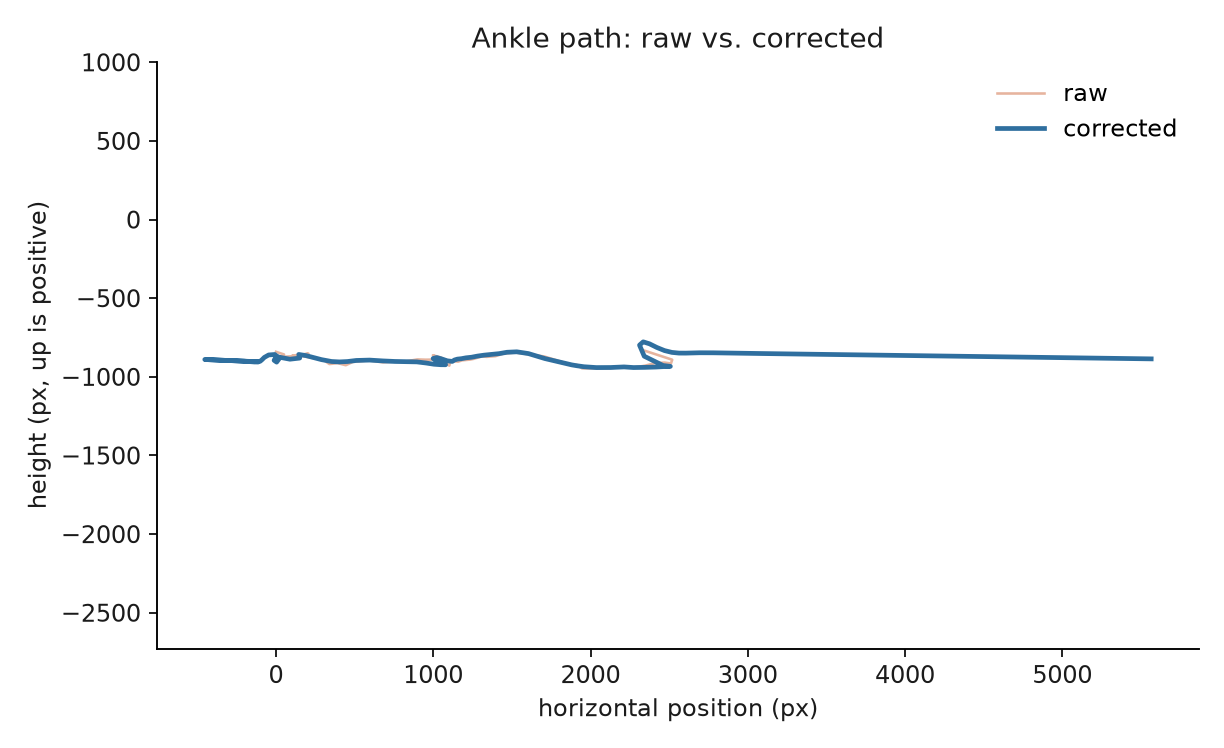
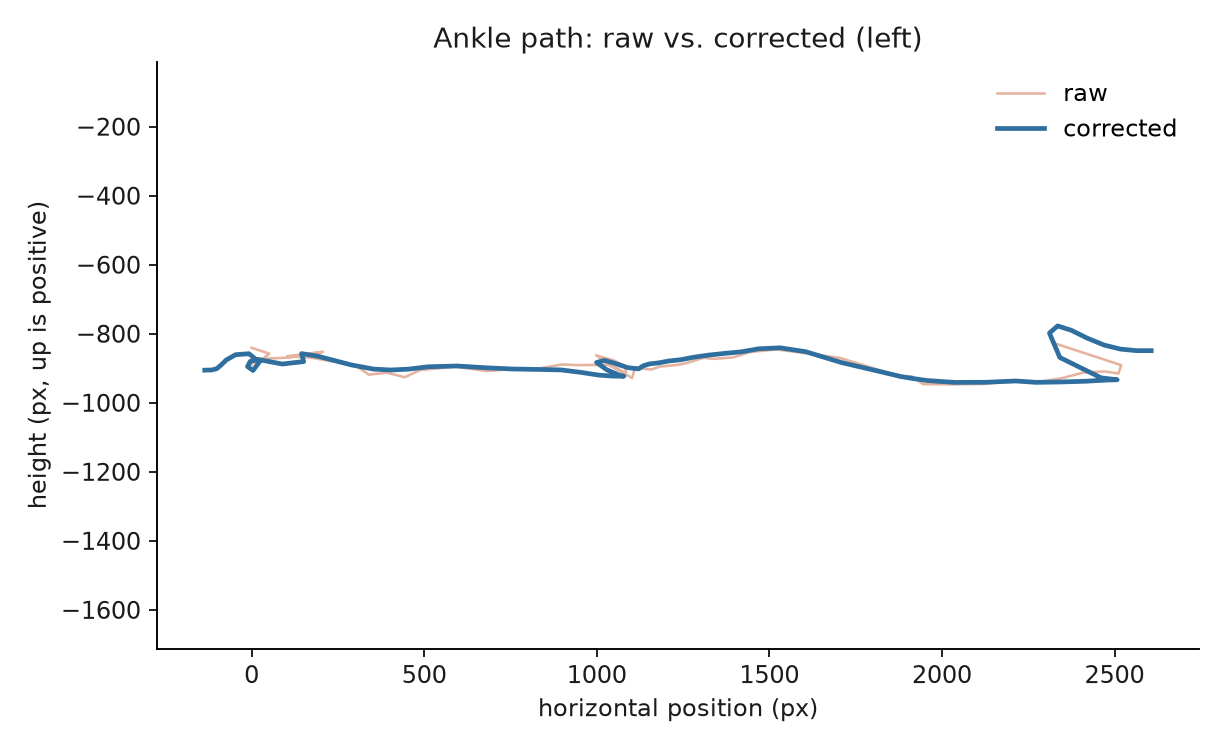
Expand qualitative figure gallery and polish README layout

diff --git a/src/strideline/viz.py b/src/strideline/viz.py
@@ -14,6 +14,7 @@ import matplotlib.pyplot as plt
 
 STRIDE_BLUE = "#2f6f9f"
 STRIDE_RED = "#c1440e"
+STRIDE_GREEN = "#2c8c4c"
 STRIDE_INK = "#1b1b1b"
 STRIDE_GRID = "#d8d8d8"
 
@@ -153,7 +154,7 @@ def plot_bound_validation(rows, out_path, title="Certified bound vs. empirical t
     plt.close(fig)
 
 
-def render_overlay_gif(video_path, tracks, results, out_path, fps_out=12.0, resize_width=480,
+def render_overlay_gif(video_path, tracks, results, out_path, fps_out=15.0, resize_width=640,
                         pad_frames=6):
     """Render raw (red) vs. corrected (blue) skeleton overlays on the
     original video, exported as a compact GIF for the README hero image.
@@ -225,20 +226,163 @@ def render_overlay_gif(video_path, tracks, results, out_path, fps_out=12.0, resi
                 cv2.circle(canvas, pt(p), 5, (255, 255, 255), -1, cv2.LINE_AA)
                 cv2.circle(canvas, pt(p), 5, (220, 140, 30), 2, cv2.LINE_AA)
 
-        font_scale = 0.5
-        cv2.putText(canvas, "red = raw pose   blue = corrected", (14, 26),
-                    cv2.FONT_HERSHEY_SIMPLEX, font_scale, (255, 255, 255), 3, cv2.LINE_AA)
-        cv2.putText(canvas, "red = raw pose   blue = corrected", (14, 26),
-                    cv2.FONT_HERSHEY_SIMPLEX, font_scale, (20, 20, 20), 1, cv2.LINE_AA)
         frames_out.append(cv2.cvtColor(canvas, cv2.COLOR_BGR2RGB))
         i += 1
 
     cap.release()
 
-    images = [Image.fromarray(f).quantize(colors=128, method=Image.MEDIANCUT) for f in frames_out]
+    # No burned-in caption text: GIF palette quantization makes small anti-aliased
+    # text look blurry/noisy. The red/blue legend lives in the README caption
+    # instead, where it renders crisply at any zoom level.
+    images = [Image.fromarray(f).quantize(colors=192, method=Image.MEDIANCUT) for f in frames_out]
     duration_ms = round(1000 / fps_out)
     images[0].save(out_path, save_all=True, append_images=images[1:], duration=duration_ms,
                    loop=0, optimize=True)
+
+
+def plot_synthetic_correction_gallery(seq, result, side, dt, out_path, n_panels=6):
+    """One full gait cycle, small multiples: the true stick figure (green,
+    exact simulator ground truth) against the actual raw noisy keypoints
+    (red, literally the simulated detector's output) and the corrected
+    reconstruction (blue), all recentred on the hip. Unlike the real-video
+    case study, this has ground truth, so it is the most direct visual
+    evidence the correction is recovering the right skeleton rather than
+    merely a smoother-looking wrong one.
+    """
+    from . import kinematics as kin
+
+    side_name = {"L": "left", "R": "right"}.get(side, side)
+    contacts = seq.contact_times_true[side]
+    t0, t1 = contacts[1], contacts[2]  # an interior cycle, away from sequence edges
+    idxs = [round((t0 + frac * (t1 - t0)) / dt) for frac in np.linspace(0, 1, n_panels, endpoint=False)]
+
+    true_thigh = np.unwrap(seq.theta_thigh_true[side])
+    true_shank = np.unwrap(seq.theta_shank_true[side])
+    L_total = seq.L_thigh_true + seq.L_shank_true
+
+    fig, axes = plt.subplots(1, n_panels, figsize=(1.85 * n_panels, 2.7), sharex=True, sharey=True)
+
+    def leg(ax, knee, ankle, color, lw, label, z, ls="-"):
+        ax.plot([0, knee[0], ankle[0]], [0, -knee[1], -ankle[1]], color=color, lw=lw, ls=ls,
+                marker="o", ms=4.5, label=label, zorder=z, solid_capstyle="round",
+                dash_capstyle="round")
+
+    for panel, idx in enumerate(idxs):
+        ax = axes[panel]
+        tk = seq.L_thigh_true * kin.unit(true_thigh[idx])
+        ta = tk + seq.L_shank_true * kin.unit(true_shank[idx])
+        leg(ax, tk, ta, STRIDE_GREEN, 3.4, "true", 1)
+
+        hip_r, knee_r, ankle_r = seq.hip_raw[idx], seq.knee_raw[side][idx], seq.ankle_raw[side][idx]
+        if np.all(np.isfinite(knee_r)) and np.all(np.isfinite(ankle_r)):
+            leg(ax, knee_r - hip_r, ankle_r - hip_r, STRIDE_RED, 1.6, "raw", 2)
+
+        ck = result.L_thigh * kin.unit(result.theta_thigh[idx])
+        ca = ck + result.L_shank * kin.unit(result.theta_shank[idx])
+        leg(ax, ck, ca, STRIDE_BLUE, 2.0, "corrected", 3, ls=(0, (4, 2)))
+
+        ax.set_xticks([])
+        ax.set_yticks([])
+        ax.set_aspect("equal")
+        for spine in ax.spines.values():
+            spine.set_visible(False)
+
+    axes[0].set_xlim(-0.75 * L_total, 0.75 * L_total)
+    axes[0].set_ylim(-1.08 * L_total, 0.08 * L_total)
+    axes[0].legend(loc="upper left", fontsize=8.5, frameon=False, handlelength=2.0)
+    fig.suptitle(f"One gait cycle, ground truth vs. raw vs. corrected ({side_name} leg)", fontsize=13,
+                 color=STRIDE_INK, y=0.98)
+    fig.tight_layout()
+    fig.savefig(out_path, dpi=170, bbox_inches="tight")
+    plt.close(fig)
+
+
+def render_contact_filmstrip(video_path, tracks, result, side, events, dt, out_path,
+                              n_events=4, crop_w=260, crop_h=340):
+    """A crisp, static filmstrip of real video frames at detected foot-strike
+    instants, with the corrected skeleton overlaid and the certified timing
+    window printed under each panel. Static PNG, not a GIF, so the text
+    renders sharp at any zoom level.
+    """
+    import cv2
+    from PIL import Image, ImageDraw, ImageFont
+
+    from . import kinematics as kin
+
+    if not events:
+        return
+
+    chosen_idx = np.linspace(0, len(events) - 1, min(n_events, len(events))).round().astype(int)
+    chosen = [events[i] for i in sorted(set(chosen_idx.tolist()))]
+
+    knee_hat, ankle_hat = kin.forward_kinematics(result.hip, result.theta_thigh, result.theta_shank,
+                                                  result.L_thigh, result.L_shank)
+
+    cap = cv2.VideoCapture(str(video_path))
+    try:
+        font = ImageFont.truetype("arial.ttf", 17)
+        font_small = ImageFont.truetype("arial.ttf", 14)
+    except OSError:
+        font = ImageFont.load_default()
+        font_small = font
+
+    label_h = 46
+    panels = []
+    for e in chosen:
+        frame_idx = round(e.t_cross / dt)
+        cap.set(cv2.CAP_PROP_POS_FRAMES, frame_idx)
+        ret, frame = cap.read()
+        if not ret:
+            continue
+
+        cx, cy = ankle_hat[frame_idx]
+        cy -= crop_h * 0.32
+        x0, y0 = int(cx - crop_w / 2), int(cy - crop_h / 2)
+        fh, fw = frame.shape[:2]
+        pad_l, pad_t = max(0, -x0), max(0, -y0)
+        pad_r, pad_b = max(0, x0 + crop_w - fw), max(0, y0 + crop_h - fh)
+        padded = cv2.copyMakeBorder(frame, pad_t, pad_b, pad_l, pad_r, cv2.BORDER_CONSTANT, value=(20, 20, 20))
+        x0p, y0p = x0 + pad_l, y0 + pad_t
+        crop = padded[y0p:y0p + crop_h, x0p:x0p + crop_w].copy()
+        offset = np.array([x0, y0])
+
+        def pt(p, offset=offset):
+            return (int(p[0] - offset[0]), int(p[1] - offset[1]))
+
+        hip_c, knee_c, ankle_c = result.hip[frame_idx], knee_hat[frame_idx], ankle_hat[frame_idx]
+        knee_r, ankle_r = tracks.knee[side][frame_idx], tracks.ankle[side][frame_idx]
+        hip_r = tracks.hip[side][frame_idx]
+        if np.all(np.isfinite(knee_r)) and np.all(np.isfinite(hip_r)):
+            cv2.line(crop, pt(hip_r), pt(knee_r), (30, 30, 220), 2, cv2.LINE_AA)
+        if np.all(np.isfinite(ankle_r)) and np.all(np.isfinite(knee_r)):
+            cv2.line(crop, pt(knee_r), pt(ankle_r), (30, 30, 220), 2, cv2.LINE_AA)
+        cv2.line(crop, pt(hip_c), pt(knee_c), (220, 140, 30), 3, cv2.LINE_AA)
+        cv2.line(crop, pt(knee_c), pt(ankle_c), (220, 140, 30), 3, cv2.LINE_AA)
+        for p in (hip_c, knee_c, ankle_c):
+            cv2.circle(crop, pt(p), 5, (255, 255, 255), -1, cv2.LINE_AA)
+            cv2.circle(crop, pt(p), 5, (220, 140, 30), 2, cv2.LINE_AA)
+
+        rgb = cv2.cvtColor(crop, cv2.COLOR_BGR2RGB)
+        panel = Image.new("RGB", (crop_w, crop_h + label_h), (250, 250, 250))
+        panel.paste(Image.fromarray(rgb), (0, 0))
+        draw = ImageDraw.Draw(panel)
+        draw.text((10, crop_h + 6), f"t = {e.t_cross:.2f}s", fill=(20, 20, 20), font=font)
+        draw.text((10, crop_h + 26), f"certified window: +/-{e.bound_seconds * 1000:.0f} ms",
+                   fill=(70, 70, 70), font=font_small)
+        panels.append(panel)
+
+    cap.release()
+    if not panels:
+        return
+
+    gap = 14
+    total_w = sum(p.width for p in panels) + gap * (len(panels) - 1)
+    strip = Image.new("RGB", (total_w, panels[0].height), (255, 255, 255))
+    x = 0
+    for p in panels:
+        strip.paste(p, (x, 0))
+        x += p.width + gap
+    strip.save(out_path)
 
 
 def plot_energy_trace(energy_trace, out_path, title="Alternating-minimization energy"):

diff --git a/scripts/run.py b/scripts/run.py
@@ -32,9 +32,12 @@ def process_side(tracks, side, dt, pad_frames=6):
 
     valid_idx = np.where(np.all(np.isfinite(knee_raw), axis=-1))[0]
     if len(valid_idx):
-        t_lo = max(0, valid_idx[0] - pad_frames) * dt
-        t_hi = (min(len(knee_raw) - 1, valid_idx[-1] + pad_frames)) * dt
-        events = [e for e in events if t_lo <= e.t_cross <= t_hi]
+        lo = max(0, valid_idx[0] - pad_frames)
+        hi = min(len(knee_raw) - 1, valid_idx[-1] + pad_frames)
+    else:
+        lo, hi = 0, len(knee_raw) - 1
+    t_lo, t_hi = lo * dt, hi * dt
+    events = [e for e in events if t_lo <= e.t_cross <= t_hi]
 
     raw_cv_thigh = kinematic_consistency_violation(hip_raw, knee_raw, result.L_thigh)
     corr_cv_thigh = kinematic_consistency_violation(result.hip, knee_hat, result.L_thigh)
@@ -46,7 +49,7 @@ def process_side(tracks, side, dt, pad_frames=6):
     summary["L_thigh_px"] = result.L_thigh
     summary["L_shank_px"] = result.L_shank
 
-    return result, events, ankle_hat, knee_hat, summary
+    return result, events, ankle_hat, knee_hat, summary, (lo, hi)
 
 
 def main():
@@ -63,8 +66,10 @@ def main():
     for side in ("left", "right"):
         results[side] = process_side(tracks, side, dt)
 
-    left_result, left_events, left_ankle_hat, _, left_summary = results["left"]
-    right_result, right_events, _, _, right_summary = results["right"]
+    left_result, left_events, left_ankle_hat, _, left_summary, left_span = results["left"]
+    right_result, right_events, right_ankle_hat, _, right_summary, right_span = results["right"]
+    l_lo, l_hi = left_span
+    r_lo, r_hi = right_span
 
     contacts_left = np.array([e.t_cross for e in left_events])
     contacts_right = np.array([e.t_cross for e in right_events])
@@ -76,15 +81,30 @@ def main():
     cadence = met.cadence_spm(contacts_left, contacts_right, active_duration)
     asymmetry = met.step_time_asymmetry_pct(contacts_left, contacts_right)
 
-    viz.plot_phase_portrait(left_result.raw_theta_thigh, left_result.raw_theta_shank,
-                             left_result.theta_thigh, left_result.theta_shank, dt,
+    viz.plot_phase_portrait(left_result.raw_theta_thigh[l_lo:l_hi + 1], left_result.raw_theta_shank[l_lo:l_hi + 1],
+                             left_result.theta_thigh[l_lo:l_hi + 1], left_result.theta_shank[l_lo:l_hi + 1], dt,
                              FIG_DIR / "phase_portrait_left.png")
-    viz.plot_ankle_path(tracks.ankle["left"], left_ankle_hat, FIG_DIR / "ankle_path_left.png")
+    viz.plot_phase_portrait(right_result.raw_theta_thigh[r_lo:r_hi + 1], right_result.raw_theta_shank[r_lo:r_hi + 1],
+                             right_result.theta_thigh[r_lo:r_hi + 1], right_result.theta_shank[r_lo:r_hi + 1], dt,
+                             FIG_DIR / "phase_portrait_right.png")
+    viz.plot_ankle_path(tracks.ankle["left"][l_lo:l_hi + 1], left_ankle_hat[l_lo:l_hi + 1],
+                        FIG_DIR / "ankle_path_left.png", title="Ankle path: raw vs. corrected (left)")
+    viz.plot_ankle_path(tracks.ankle["right"][r_lo:r_hi + 1], right_ankle_hat[r_lo:r_hi + 1],
+                        FIG_DIR / "ankle_path_right.png", title="Ankle path: raw vs. corrected (right)")
     viz.plot_constraint_violation_strip(left_result.raw_L_thigh_series, left_result.L_thigh, dt,
                                          FIG_DIR / "constraint_violation_left.png")
+    viz.plot_constraint_violation_strip(right_result.raw_L_thigh_series, right_result.L_thigh, dt,
+                                         FIG_DIR / "constraint_violation_right.png",
+                                         title="Where the raw pose broke limb-length constancy (right)")
     viz.plot_certificate_timeline(left_ankle_hat[:, 1], dt, left_events,
                                    FIG_DIR / "certificate_timeline_left.png")
     viz.plot_energy_trace(left_result.energy_trace, FIG_DIR / "energy_trace_left.png")
+
+    left_valid_idx = np.where(np.all(np.isfinite(tracks.knee["left"]), axis=-1))[0]
+    strict_lo, strict_hi = (left_valid_idx[0] * dt, left_valid_idx[-1] * dt) if len(left_valid_idx) else (0, 0)
+    filmstrip_events = [e for e in left_events if strict_lo <= e.t_cross <= strict_hi]
+    viz.render_contact_filmstrip(args.video, tracks, left_result, "left", filmstrip_events, dt,
+                                  FIG_DIR / "contact_filmstrip_left.png")
 
     labels = ["stride-time CV (%)", "knee-angle CV (%)", "hip oscillation (x100)"]
     values_left = [left_summary["stride_time_cv_pct"], left_summary["knee_angle_cv_pct"],

diff --git a/scripts/benchmark.py b/scripts/benchmark.py
@@ -112,6 +112,13 @@ def main():
 
     viz.plot_bound_validation(all_rows, FIG_DIR / "bound_validation.png")
 
+    gallery_seq = simulate.generate_sequence(duration_s=8.0, fps=60.0, pixel_noise_std=7.0,
+                                              dropout_prob=0.05, seed=7)
+    gallery_result = constrained_smooth(gallery_seq.hip_raw, gallery_seq.knee_raw["L"],
+                                         gallery_seq.ankle_raw["L"], dt=gallery_seq.dt)
+    viz.plot_synthetic_correction_gallery(gallery_seq, gallery_result, "L", gallery_seq.dt,
+                                           FIG_DIR / "synthetic_correction_gallery.png")
+
     print(json.dumps({k: v for k, v in summary.items() if k != "table"}, indent=2))
     for row in table:
         print(row)

diff --git a/README.md b/README.md
@@ -70,6 +70,17 @@ monotonically non-increasing, checked directly (not just argued) in
 
 <p align="center"><img src="assets/figures/energy_trace_left.png" width="440" alt="Energy trace decreasing monotonically across outer iterations, real clip"></p>
 
+Because the synthetic simulator carries exact ground truth, the correction can be
+checked against the true skeleton directly, not just against a smoother-looking
+guess. One gait cycle, small multiples, the same six instants for all three:
+
+<p align="center"><img src="assets/figures/synthetic_correction_gallery.png" width="100%" alt="Six instants across one gait cycle: true skeleton in green, actual raw noisy keypoints in red, corrected reconstruction in blue"></p>
+
+The blue (corrected) line sits almost exactly on top of the green (true) line in
+every panel; the red (raw) line is the actual simulated detector output, wandering
+off it by varying amounts frame to frame - visible proof the correction is
+converging to the right answer, not merely a tidier wrong one.
+
 ## The contact-time certificate
 
 Ground contact is the zero-crossing of the ankle's vertical velocity. Linear
@@ -147,11 +158,41 @@ long enough for the cadence and variability numbers to be precision
 measurements. Treat this section as "does the machinery work on a real, messy
 video," and the synthetic table above as the actual accuracy claim.
 
-<p align="center"><img src="assets/figures/phase_portrait_left.png" width="380" alt="Knee angle vs angular velocity phase portrait, real clip"> <img src="assets/figures/symmetry_radar.png" width="380" alt="Left vs right symmetry radar, real clip"></p>
+**The contact certificate, on real frames.** Four detected foot strikes, cropped
+straight out of the source video, with the corrected skeleton overlaid (red is
+the raw pose model's own output at that instant) and the certified timing
+window printed underneath - the same certificate as the graph above, but
+anchored to what the camera actually saw.
 
-<p align="center"><img src="assets/figures/constraint_violation_left.png" width="760" alt="Where the raw pose broke limb-length constancy over time, real clip"></p>
+<p align="center"><img src="assets/figures/contact_filmstrip_left.png" width="100%" alt="Four real video frames at detected foot-strike instants, skeleton overlaid, certified timing window printed under each"></p>
+
+**Knee phase portraits, both legs.** The same limit-cycle view as the
+constraint section above, computed independently per leg - the two loops are
+visibly different shapes, which is the phase portrait's way of showing the
+asymmetry the table below quantifies.
+
+<p align="center"><img src="assets/figures/phase_portrait_left.png" height="330" alt="Knee phase portrait, left leg, real clip"> <img src="assets/figures/phase_portrait_right.png" height="330" alt="Knee phase portrait, right leg, real clip"></p>
+
+**Ankle paths, both legs.** Raw keypoints (thin, pale) against the corrected
+trajectory (thick, blue) - the correction visibly rides through the raw jitter
+rather than deviating from it.
+
+<p align="center"><img src="assets/figures/ankle_path_left.png" height="300" alt="Ankle path, left leg, real clip"> <img src="assets/figures/ankle_path_right.png" height="300" alt="Ankle path, right leg, real clip"></p>
+
+**Where the raw pose broke limb-length constancy, both legs.**
+
+<p align="center"><img src="assets/figures/constraint_violation_left.png" width="760" alt="Where the raw pose broke limb-length constancy over time, left leg, real clip"></p>
+<p align="center"><img src="assets/figures/constraint_violation_right.png" width="760" alt="Where the raw pose broke limb-length constancy over time, right leg, real clip"></p>
+
+**The contact-time certificate over the full clip, left leg** (the filmstrip
+above zooms in on four of these events):
 
 <p align="center"><img src="assets/figures/certificate_timeline_left.png" width="760" alt="Detected contact events with certified timing windows, real clip"></p>
+
+**Left / right symmetry**, the same three consistency metrics as the case-study
+table below, as a shape rather than a column of numbers:
+
+<p align="center"><img src="assets/figures/symmetry_radar.png" width="420" alt="Left vs right symmetry radar, real clip"></p>
 
 <div align="center">
 
@@ -207,16 +248,22 @@ the 240 fps stress-test numbers cited above.
 
 ## Layout
 
-| path | contents |
-|---|---|
-| `src/strideline/rts.py` | generic linear Kalman filter / RTS smoother |
-| `src/strideline/kinematics.py` | keypoints <-> joint angles, forward kinematics |
-| `src/strideline/smoother.py` | the constrained kinematic smoother |
-| `src/strideline/events.py` | contact detection and the certified bound |
-| `src/strideline/metrics.py` | cadence, asymmetry, variability, Form Consistency Index |
-| `src/strideline/simulate.py` | the synthetic ground-truth gait generator |
-| `src/strideline/pose.py` | local YOLO11-pose keypoint extraction |
-| `src/strideline/viz.py` | every figure in this README |
+<table width="100%">
+<colgroup><col width="32%"><col width="68%"></colgroup>
+<tr><th align="left">path</th><th align="left">contents</th></tr>
+<tr><td><code>src/strideline/rts.py</code></td><td>generic linear Kalman filter / RTS smoother</td></tr>
+<tr><td><code>src/strideline/kinematics.py</code></td><td>keypoints &lt;-&gt; joint angles, forward kinematics</td></tr>
+<tr><td><code>src/strideline/smoother.py</code></td><td>the constrained kinematic smoother (pillar 1)</td></tr>
+<tr><td><code>src/strideline/events.py</code></td><td>contact detection and the certified bound (pillar 2)</td></tr>
+<tr><td><code>src/strideline/metrics.py</code></td><td>cadence, asymmetry, variability, Form Consistency Index</td></tr>
+<tr><td><code>src/strideline/simulate.py</code></td><td>the synthetic ground-truth gait generator</td></tr>
+<tr><td><code>src/strideline/pose.py</code></td><td>local YOLO11-pose keypoint extraction</td></tr>
+<tr><td><code>src/strideline/viz.py</code></td><td>every figure in this README</td></tr>
+<tr><td><code>scripts/benchmark.py</code></td><td>the synthetic sweep: table, bound-validation plot, correction gallery</td></tr>
+<tr><td><code>scripts/run.py</code></td><td>the real-clip case study: metrics, filmstrip, every per-leg figure</td></tr>
+<tr><td><code>scripts/calibrate.py</code></td><td>reproduces <code>CALIBRATED_SAFETY_FACTOR</code> and the 240 fps stress test</td></tr>
+<tr><td><code>tests/</code></td><td>18 tests: smoother convergence, certified-bound validation, kinematics, metrics</td></tr>
+</table>
 
 ## License
 
